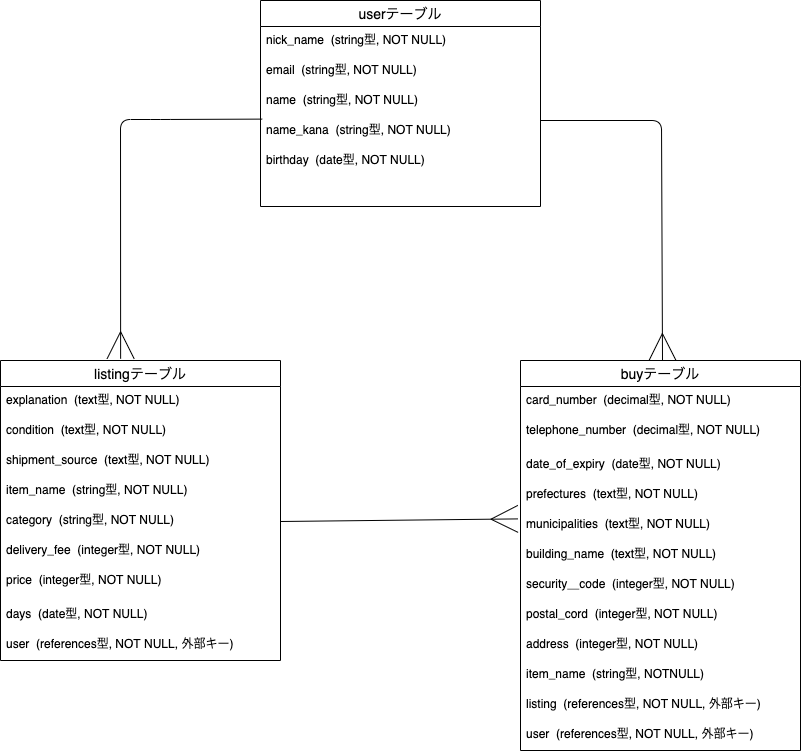
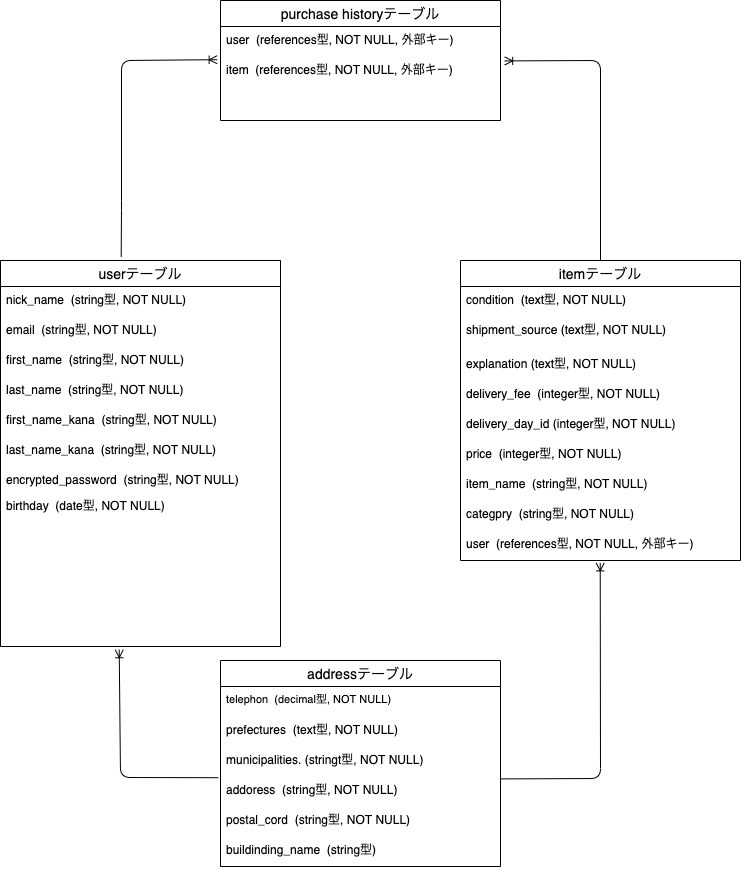
テーブル設計修正１

diff --git a/README.md b/README.md
@@ -1,36 +1,57 @@
 ## users テーブル
-| Column             | Type   | Options     |
-| ------------------ | ------ | ----------- |
-| nick_name          | string | null: false |
-| email              | string | null: false |
-| name               | string | null: false |
-| name_kana          | string | null: false |
-| birthday           | date   | null: false |
+| Column             | Type   | Options      |
+| ------------------ | ------ | ------------ |
+| nick_name          | string | null: false  |
+| email              | string | unique: true |
+| first_name         | string | null: false  |
+| last_name          | string | null: false  |
+| first_name_kana    | string | null: false  |
+| last_name_kana     | string | null: false  |
+| encrypted_password | string | null: false  |
+| birthday           | date   | null: false  |
 
-## buy テーブル
+- has_many :Purchase history
+- belongs_to :address
+
+## address テーブル
 | Column             | Type       | Options                        |
 | ------------------ | ---------- | ------------------------------ |
-| card_number        | decimal    | null: false                    |
 | telephone_number   | decimal    | null: false                    |
-| date_of_expiry     | date       | null: false                    |
 | prefectures        | text       | null: false                    |
-| municipalities     | text       | null: false                    |
-| building_name      | text       | null: false                    |
-| security_cord      | integer    | null: false                    |
-| postal_cord        | integer    | null: false                    |
-| address            | integer    | null: false                    |
-| listing            | references | null: false, foreign_key: true |
-| user               | references | null: false, foreign_key: true |
+| municipalities     | string     | null: false                    |
+| address            | string     | null: false                    |
+| postal_cord        | string     | null: false                    |
+| building_name      | string     |                                |
 
-## listing テーブル
+- has_many :item
+- has_many :user
+
+## Purchase history テーブル
 | Column             | Type       | Options                        |
 | ------------------ | ---------- | ------------------------------ |
-| explanation        | text       | null: false                    |
+| user               | references | null: false, foreign_key: true |
+| item               | references | null: false, foreign_key: true |
+
+- belongs_to :item
+- belongs_to :user
+
+## item テーブル
+| Column             | Type       | Options                        |
+| ------------------ | ---------- | ------------------------------ |
 | condition          | text       | null: false                    |
 | shipment_source    | text       | null: false                    |
+| explanation        | text       | null: false                    |
+| delivery_fee       | integer    | null: false                    |
+| delivery_day_id    | integer    | null: false                    |
+| price              | integer    | null: false                    |
 | item_name          | string     | null: false                    |
 | category           | string     | null: false                    |
-| delivery_fee       | integer    | null: false                    |
-| price              | integer    | null: false                    |
-| days               | date       | null: false                    |
 | user               | references | null: false, foreign_key: true |
+
+- has_many :Purchase history
+- belongs_to :address
+- has_many_active_hash :category
+- has_many_active_hash :condition 
+- has_many_active_hash :delivery_fee
+- has_many_active_hash :shipment_source
+- has_many_active_hash :delivery_day_id
